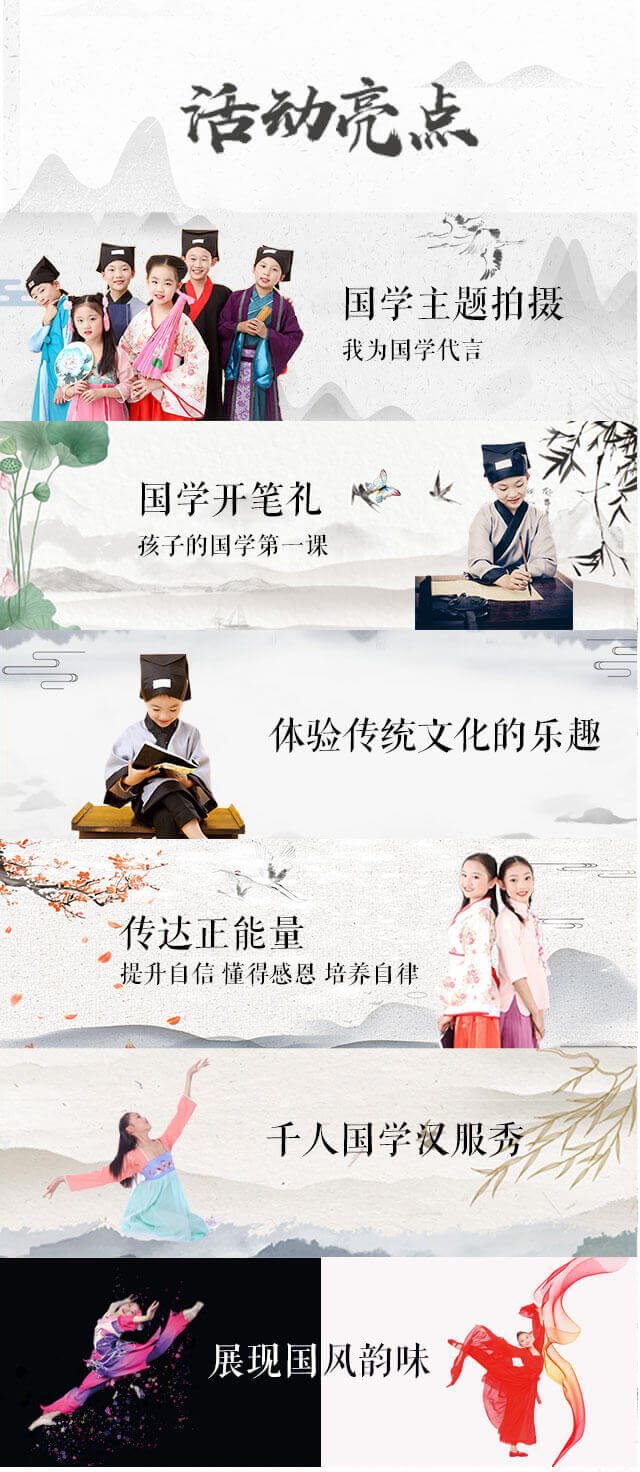
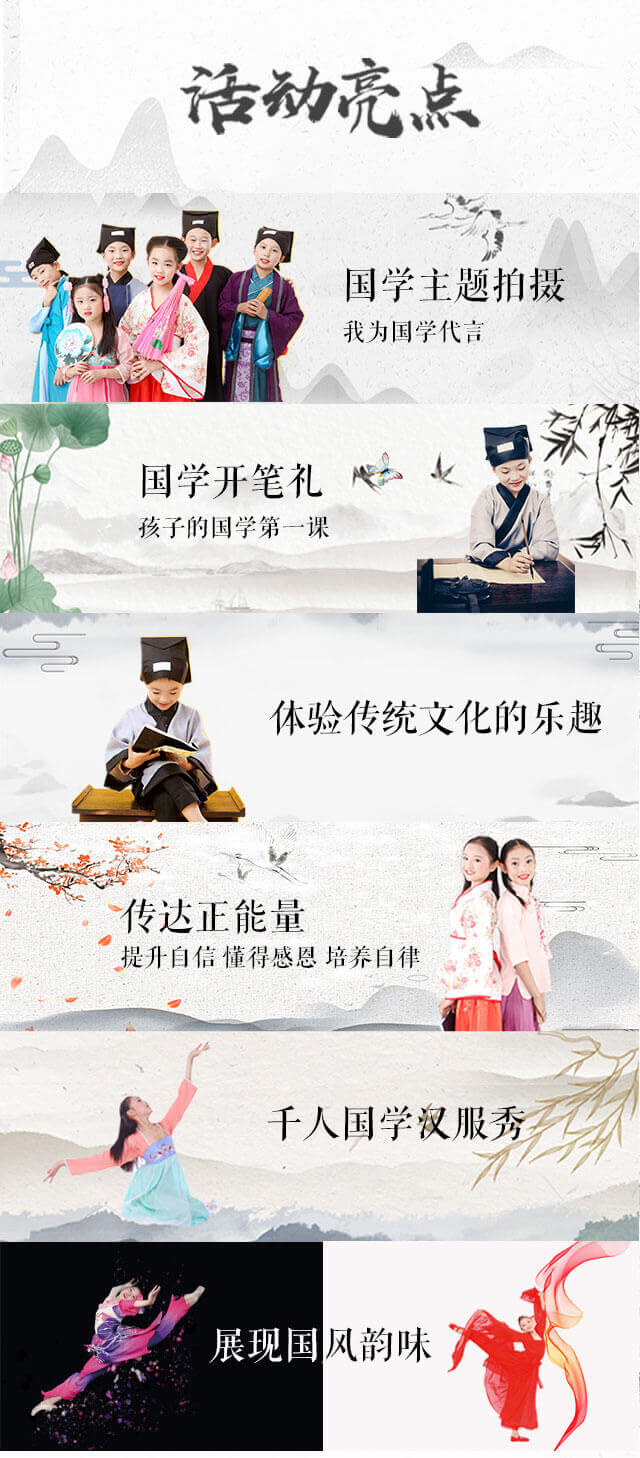
修改分享标题；替换图片素材；

diff --git a/src/config/wxsdk.js b/src/config/wxsdk.js
@@ -23,7 +23,7 @@ export default {
         wx.ready(function () {
             //“分享给朋友”
             wx.onMenuShareAppMessage({
-                title: '中原首届国学文化艺术节',
+                title: '腾讯·大豫网丨中原首届国学文化艺术节丨尉氏赛区',
                 desc: '为国学打call 为少年加油 国学少年成长路期待您的参与',
                 imgUrl: "http://h5.ztuo.cn/img/shareimg.jpg",
                 link: origin + '?openId=' + openId,
@@ -32,7 +32,7 @@ export default {
             });
             //“分享到朋友圈”
             wx.onMenuShareTimeline({
-                title: '中原首届国学文化艺术节',
+                title: '腾讯·大豫网丨中原首届国学文化艺术节丨尉氏赛区',
                 desc: '为国学打call 为少年加油 国学少年成长路期待您的参与',
                 imgUrl: "http://h5.ztuo.cn/img/shareimg.jpg",
                 link: origin + '?openId' + openId,
